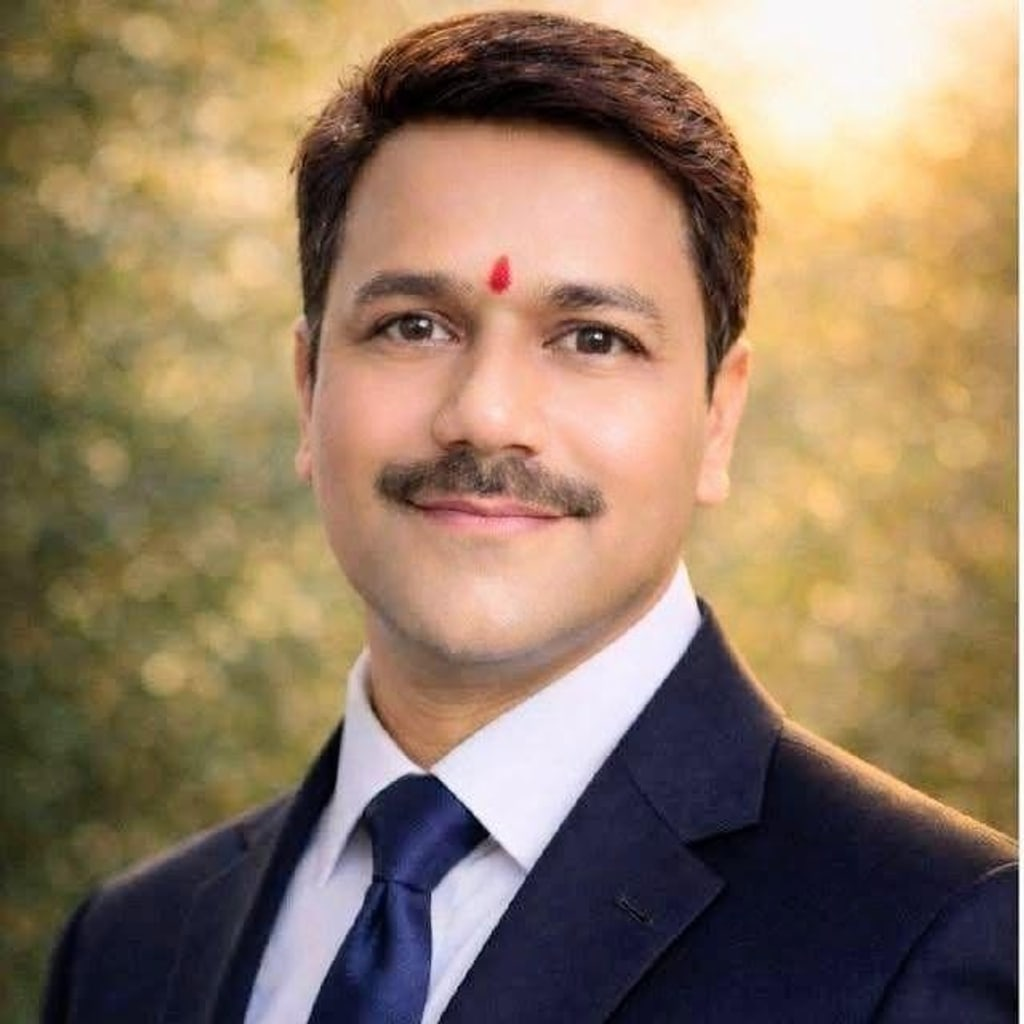
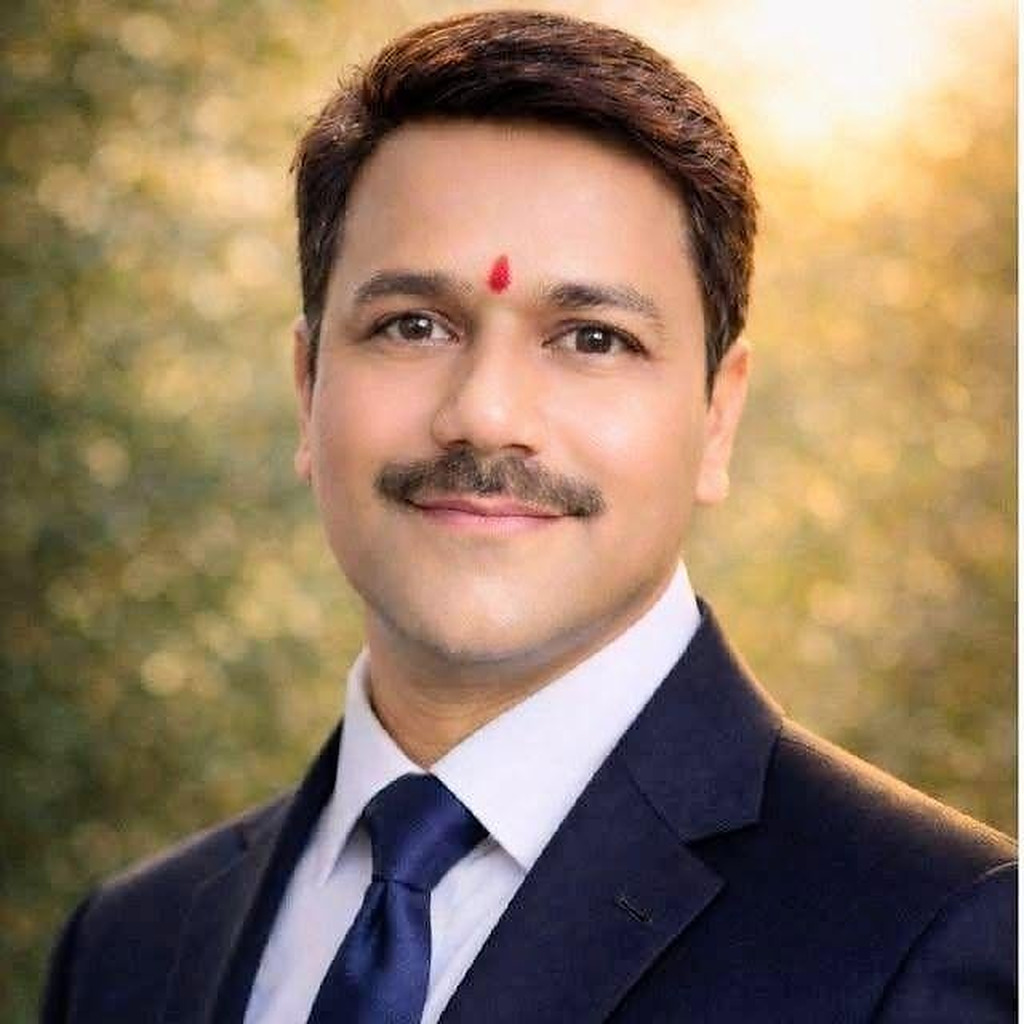
Refresh founder portrait and remove unused blurry copy
Sharpen the Ramesh Pandey founder photo (Home / About / Team) from the
true 640px original with a gentle unsharp mask instead of the naive
upscale, and bump the cache-buster to v=3 so the new file is fetched.
Delete the unused blurry duplicate (Teams_Images/image_2.jpg,
Gallery_Images/team/Ramesh Pandey.jpg) and regenerate the member library.

diff --git a/src/ims/oldOfficeComponents.jsx b/src/ims/oldOfficeComponents.jsx
@@ -694,7 +694,7 @@ function MembersRegister({rows,add,archive,updateRecord}){
  // Members Register is intentionally independent from Managing Committee data.
  // Recovery seed restores the canonical 9 SSF master members when the register is empty.
  const MASTER_MEMBER_DATA=[
-  {memberId:"SSF-MBR-00001",memberType:"Founder Member",designation:"President",responsibility:"Chief Executive & External Relations",fullName:"Ramesh Pandey",occupation:"Farmer & Social Worker",gender:"Male",mobile:"9718346691",email:"rameshpandey335@gmail.com",address:"Ward 1, Village Dadar, P.O. Rahat",city:"Rewa",state:"Madhya Pradesh",pinCode:"486446",joiningDate:"2013-12-30",photoUrl:"/Teams_Images/ramesh_pandey.jpg?v=2"},
+  {memberId:"SSF-MBR-00001",memberType:"Founder Member",designation:"President",responsibility:"Chief Executive & External Relations",fullName:"Ramesh Pandey",occupation:"Farmer & Social Worker",gender:"Male",mobile:"9718346691",email:"rameshpandey335@gmail.com",address:"Ward 1, Village Dadar, P.O. Rahat",city:"Rewa",state:"Madhya Pradesh",pinCode:"486446",joiningDate:"2013-12-30",photoUrl:"/Teams_Images/ramesh_pandey.jpg?v=3"},
   {memberId:"SSF-MBR-00014",memberType:"General Member",designation:"Vice President",responsibility:"Project Planning & Monitoring",fullName:"Preeti Shukla",occupation:"Homemaker & Student",gender:"Female",mobile:"8085897964",email:"preetipandeydadar@gmail.com",address:"134/7, Gram Maidani, Shiva ji Nagar",city:"Rewa",state:"Madhya Pradesh",pinCode:"486001",joiningDate:"2021-04-30",photoUrl:"/Teams_Images/image_19.jpg"},
   {memberId:"SSF-MBR-00002",memberType:"Founder Member",designation:"Secretary",responsibility:"Administration & Legal Compliance",fullName:"Amit Kumar Pandey",occupation:"Farmer & Business Owner",gender:"Male",mobile:"9009255202",email:"amitp203@gmail.com",address:"Village Dadar, Bankuiya road, P.O. Rahat",city:"Rewa",state:"Madhya Pradesh",pinCode:"486446",joiningDate:"2013-12-30",photoUrl:"/Teams_Images/image_15.jpg"},
   {memberId:"SSF-MBR-00003",memberType:"Founder Member",designation:"Treasurer",responsibility:"Finance & Accounts In-charge",fullName:"Divya Sharma",occupation:"Homemaker & Social Worker",gender:"Female",mobile:"9827263231",email:"divsharma067@gmail.com",address:"Village Dadar, Bankuiya road, P.O. Rahat",city:"Rewa",state:"Madhya Pradesh",pinCode:"486446",joiningDate:"2013-12-30",photoUrl:"/Teams_Images/divya_sharma.jpg"},
@@ -943,7 +943,7 @@ function MeetingResolutions({rows,add,archive,restore,token,updateRecord}){
 
 function ManagingCommittee({rows,add,updateRecord,archive,token,loaded}){
  const seed=[
-  {memberId:"SSF-MBR-00001",memberType:"Founder Member",designation:"President",responsibility:"Chief Executive & External Relations",fullName:"Ramesh Pandey",occupation:"Farmer & Social Worker",gender:"Male",mobile:"9718346691",email:"rameshpandey335@gmail.com",address:"Ward 1, Village Dadar, P.O. Rahat",city:"Rewa",state:"Madhya Pradesh",pinCode:"486446",joiningDate:"2013-12-30",photoUrl:"/Teams_Images/ramesh_pandey.jpg?v=2"},
+  {memberId:"SSF-MBR-00001",memberType:"Founder Member",designation:"President",responsibility:"Chief Executive & External Relations",fullName:"Ramesh Pandey",occupation:"Farmer & Social Worker",gender:"Male",mobile:"9718346691",email:"rameshpandey335@gmail.com",address:"Ward 1, Village Dadar, P.O. Rahat",city:"Rewa",state:"Madhya Pradesh",pinCode:"486446",joiningDate:"2013-12-30",photoUrl:"/Teams_Images/ramesh_pandey.jpg?v=3"},
   {memberId:"SSF-MBR-00014",memberType:"General Member",designation:"Vice President",responsibility:"Project Planning & Monitoring",fullName:"Preeti Shukla",occupation:"Homemaker & Student",gender:"Female",mobile:"8085897964",email:"preetipandeydadar@gmail.com",address:"134/7, Gram Maidani, Shiva ji Nagar",city:"Rewa",state:"Madhya Pradesh",pinCode:"486001",joiningDate:"2021-04-30",photoUrl:"/Teams_Images/image_19.jpg"},
   {memberId:"SSF-MBR-00002",memberType:"Founder Member",designation:"Secretary",responsibility:"Administration & Legal Compliance",fullName:"Amit Kumar Pandey",occupation:"Farmer & Business Owner",gender:"Male",mobile:"9009255202",email:"amitp203@gmail.com",address:"Village Dadar, Bankuiya road, P.O. Rahat",city:"Rewa",state:"Madhya Pradesh",pinCode:"486446",joiningDate:"2013-12-30",photoUrl:"/Teams_Images/image_15.jpg"},
   {memberId:"SSF-MBR-00003",memberType:"Founder Member",designation:"Treasurer",responsibility:"Finance & Accounts In-charge",fullName:"Divya Sharma",occupation:"Homemaker & Social Worker",gender:"Female",mobile:"9827263231",email:"divsharma067@gmail.com",address:"Village Dadar, Bankuiya road, P.O. Rahat",city:"Rewa",state:"Madhya Pradesh",pinCode:"486446",joiningDate:"2013-12-30",photoUrl:"/Teams_Images/divya_sharma.jpg"},

diff --git a/src/pages/SSFDigitalOffice.jsx b/src/pages/SSFDigitalOffice.jsx
@@ -1307,7 +1307,7 @@ function MembersRegister({rows,add,updateRecord}){
  // Members Register is intentionally independent from Managing Committee data.
  // Recovery seed restores the canonical 9 SSF master members when the register is empty.
  const MASTER_MEMBER_DATA=[
-  {memberId:"SSF-MBR-00001",memberType:"Founder Member",designation:"President",responsibility:"Chief Executive & External Relations",fullName:"Ramesh Pandey",occupation:"Farmer & Social Worker",gender:"Male",mobile:"9718346691",email:"rameshpandey335@gmail.com",address:"Ward 1, Village Dadar, P.O. Rahat",city:"Rewa",state:"Madhya Pradesh",pinCode:"486446",joiningDate:"2013-12-30",photoUrl:"/Teams_Images/ramesh_pandey.jpg?v=2"},
+  {memberId:"SSF-MBR-00001",memberType:"Founder Member",designation:"President",responsibility:"Chief Executive & External Relations",fullName:"Ramesh Pandey",occupation:"Farmer & Social Worker",gender:"Male",mobile:"9718346691",email:"rameshpandey335@gmail.com",address:"Ward 1, Village Dadar, P.O. Rahat",city:"Rewa",state:"Madhya Pradesh",pinCode:"486446",joiningDate:"2013-12-30",photoUrl:"/Teams_Images/ramesh_pandey.jpg?v=3"},
   {memberId:"SSF-MBR-00014",memberType:"General Member",designation:"Vice President",responsibility:"Project Planning & Monitoring",fullName:"Preeti Shukla",occupation:"Homemaker & Student",gender:"Female",mobile:"8085897964",email:"preetipandeydadar@gmail.com",address:"134/7, Gram Maidani, Shiva ji Nagar",city:"Rewa",state:"Madhya Pradesh",pinCode:"486001",joiningDate:"2021-04-30",photoUrl:"/Teams_Images/image_19.jpg"},
   {memberId:"SSF-MBR-00002",memberType:"Founder Member",designation:"Secretary",responsibility:"Administration & Legal Compliance",fullName:"Amit Kumar Pandey",occupation:"Farmer & Business Owner",gender:"Male",mobile:"9009255202",email:"amitp203@gmail.com",address:"Village Dadar, Bankuiya road, P.O. Rahat",city:"Rewa",state:"Madhya Pradesh",pinCode:"486446",joiningDate:"2013-12-30",photoUrl:"/Teams_Images/image_15.jpg"},
   {memberId:"SSF-MBR-00003",memberType:"Founder Member",designation:"Treasurer",responsibility:"Finance & Accounts In-charge",fullName:"Divya Sharma",occupation:"Homemaker & Social Worker",gender:"Female",mobile:"9827263231",email:"divsharma067@gmail.com",address:"Village Dadar, Bankuiya road, P.O. Rahat",city:"Rewa",state:"Madhya Pradesh",pinCode:"486446",joiningDate:"2013-12-30",photoUrl:"/Teams_Images/divya_sharma.jpg"},
@@ -1693,7 +1693,7 @@ function MeetingResolutions({rows,add,archive,restore,token,updateRecord}){
 
 function ManagingCommittee({rows,add,updateRecord,archive,token,loaded}){
  const seed=[
-  {memberId:"SSF-MBR-00001",memberType:"Founder Member",designation:"President",responsibility:"Chief Executive & External Relations",fullName:"Ramesh Pandey",occupation:"Farmer & Social Worker",gender:"Male",mobile:"9718346691",email:"rameshpandey335@gmail.com",address:"Ward 1, Village Dadar, P.O. Rahat",city:"Rewa",state:"Madhya Pradesh",pinCode:"486446",joiningDate:"2013-12-30",photoUrl:"/Teams_Images/ramesh_pandey.jpg?v=2"},
+  {memberId:"SSF-MBR-00001",memberType:"Founder Member",designation:"President",responsibility:"Chief Executive & External Relations",fullName:"Ramesh Pandey",occupation:"Farmer & Social Worker",gender:"Male",mobile:"9718346691",email:"rameshpandey335@gmail.com",address:"Ward 1, Village Dadar, P.O. Rahat",city:"Rewa",state:"Madhya Pradesh",pinCode:"486446",joiningDate:"2013-12-30",photoUrl:"/Teams_Images/ramesh_pandey.jpg?v=3"},
   {memberId:"SSF-MBR-00014",memberType:"General Member",designation:"Vice President",responsibility:"Project Planning & Monitoring",fullName:"Preeti Shukla",occupation:"Homemaker & Student",gender:"Female",mobile:"8085897964",email:"preetipandeydadar@gmail.com",address:"134/7, Gram Maidani, Shiva ji Nagar",city:"Rewa",state:"Madhya Pradesh",pinCode:"486001",joiningDate:"2021-04-30",photoUrl:"/Teams_Images/image_19.jpg"},
   {memberId:"SSF-MBR-00002",memberType:"Founder Member",designation:"Secretary",responsibility:"Administration & Legal Compliance",fullName:"Amit Kumar Pandey",occupation:"Farmer & Business Owner",gender:"Male",mobile:"9009255202",email:"amitp203@gmail.com",address:"Village Dadar, Bankuiya road, P.O. Rahat",city:"Rewa",state:"Madhya Pradesh",pinCode:"486446",joiningDate:"2013-12-30",photoUrl:"/Teams_Images/image_15.jpg"},
   {memberId:"SSF-MBR-00003",memberType:"Founder Member",designation:"Treasurer",responsibility:"Finance & Accounts In-charge",fullName:"Divya Sharma",occupation:"Homemaker & Social Worker",gender:"Female",mobile:"9827263231",email:"divsharma067@gmail.com",address:"Village Dadar, Bankuiya road, P.O. Rahat",city:"Rewa",state:"Madhya Pradesh",pinCode:"486446",joiningDate:"2013-12-30",photoUrl:"/Teams_Images/divya_sharma.jpg"},

diff --git a/src/data/teamData.js b/src/data/teamData.js
@@ -3,7 +3,7 @@
 
 export const teamMembers = [
   // Governing Body
-  { id: 'g1', name: 'Mr. Ramesh Pandey', role: 'Founder & National President', location: 'Rewa, Madhya Pradesh', img: '/Teams_Images/ramesh_pandey.jpg?v=2', group: 'governing', visible: true },
+  { id: 'g1', name: 'Mr. Ramesh Pandey', role: 'Founder & National President', location: 'Rewa, Madhya Pradesh', img: '/Teams_Images/ramesh_pandey.jpg?v=3', group: 'governing', visible: true },
   { id: 'g2', name: 'Ms. Preeti Shukla', role: 'Vice President', location: 'Rewa, Madhya Pradesh', img: '/Teams_Images/image_19.jpg', group: 'governing', visible: true },
   { id: 'g3', name: 'Mr. Amit Pandey', role: 'General Secretary', location: 'Rewa, Madhya Pradesh', img: '/Teams_Images/image_15.jpg', group: 'governing', visible: true },
   { id: 'g4', name: 'Ms. Divya Sharma', role: 'Treasurer', location: 'Rewa, Madhya Pradesh', img: '/Teams_Images/divya_sharma.jpg', group: 'governing', visible: true },

diff --git a/src/pages/Team.jsx b/src/pages/Team.jsx
@@ -6,7 +6,7 @@ import { BRAND } from "../data/brandAssets";
 // Team data structure - Single source of truth
 const teamStructure = {
   leadership: [
-    { name: "Mr. Ramesh Pandey", designation: "Founder & President", location: "Rewa, Madhya Pradesh", img: "/Teams_Images/ramesh_pandey.jpg?v=2" },
+    { name: "Mr. Ramesh Pandey", designation: "Founder & President", location: "Rewa, Madhya Pradesh", img: "/Teams_Images/ramesh_pandey.jpg?v=3" },
     { name: "Ms. Preeti Shukla", designation: "Vice President", location: "Rewa, Madhya Pradesh", img: "/Teams_Images/image_19.jpg" },
     { name: "Mr. Amit Pandey", designation: "Secretary", location: "Rewa, Madhya Pradesh", img: "/Teams_Images/image_15.jpg" },
     { name: "Ms. Divya Sharma", designation: "Treasurer", location: "Rewa, Madhya Pradesh", img: "/Teams_Images/divya_sharma.jpg" },

diff --git a/src/pages/Home.jsx b/src/pages/Home.jsx
@@ -1079,7 +1079,7 @@ export default function Home() {
               <div className="relative overflow-hidden rounded-[1.6rem] border border-white bg-white p-2 shadow-[0_24px_65px_-28px_rgba(18,52,90,0.48)] sm:rounded-[2rem] sm:p-3">
                 <div className="relative aspect-[4/4.7] overflow-hidden rounded-[1.15rem] bg-[#E9ECE8] sm:rounded-[1.45rem]">
                   <OptimizedImage
-                    src="/Teams_Images/ramesh_pandey.jpg?v=2"
+                    src="/Teams_Images/ramesh_pandey.jpg?v=3"
                     alt="Ramesh Pandey, Founder and President of Swastik Srijan Foundation"
                     className="h-full w-full object-cover object-center transition-transform duration-700 hover:scale-[1.025]"
                   />

diff --git a/src/pages/AboutPage.jsx b/src/pages/AboutPage.jsx
@@ -353,7 +353,7 @@ export default function AboutPage() {
               <div className="absolute inset-0 bg-gradient-to-br from-[#12345A] via-[#0D2B49] to-[#176447]" aria-hidden="true" />
               <div className="relative w-full max-w-[230px] overflow-hidden rounded-[1.5rem] border border-white/20 bg-white/10 p-2 shadow-2xl">
                 <OptimizedImage
-                  src="/Teams_Images/ramesh_pandey.jpg?v=2"
+                  src="/Teams_Images/ramesh_pandey.jpg?v=3"
                   alt="Mr. Ramesh Pandey, Founder and President of Swastik Srijan Foundation"
                   className="block aspect-square w-full rounded-[1rem] object-cover"
                 />

diff --git a/src/pages/JourneyPage.jsx b/src/pages/JourneyPage.jsx
@@ -101,7 +101,7 @@ export default function JourneyPage() {
                   {/* Coordinator Signature with SMALL Image */}
                   <div className="flex items-center gap-4 pt-4 border-t border-zinc-50">
                     <img
-                      src="/Teams_Images/ramesh_pandey.jpg?v=2"
+                      src="/Teams_Images/ramesh_pandey.jpg?v=3"
                       alt="Ramesh Pandey"
                       className="w-16 h-16 rounded-full border-2 border-[#176447]/20 object-cover shadow-sm"
                     />
